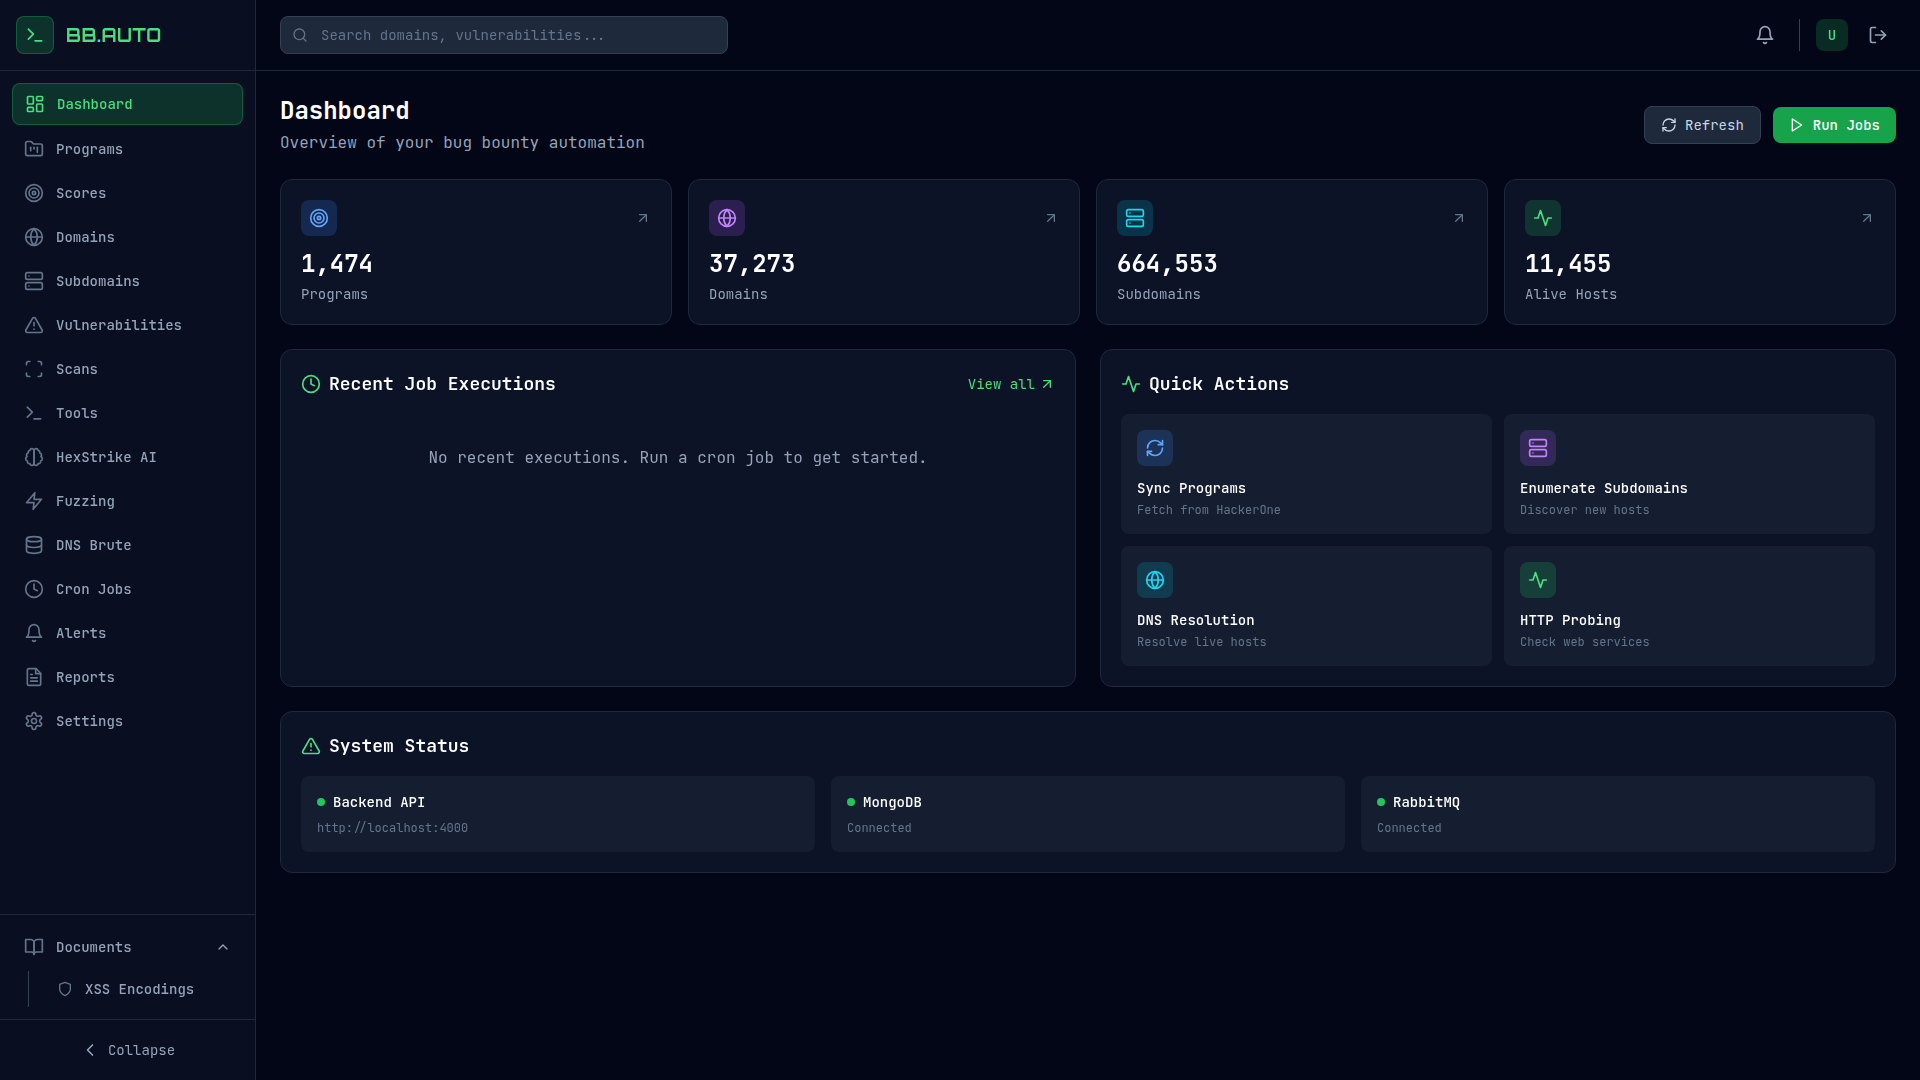
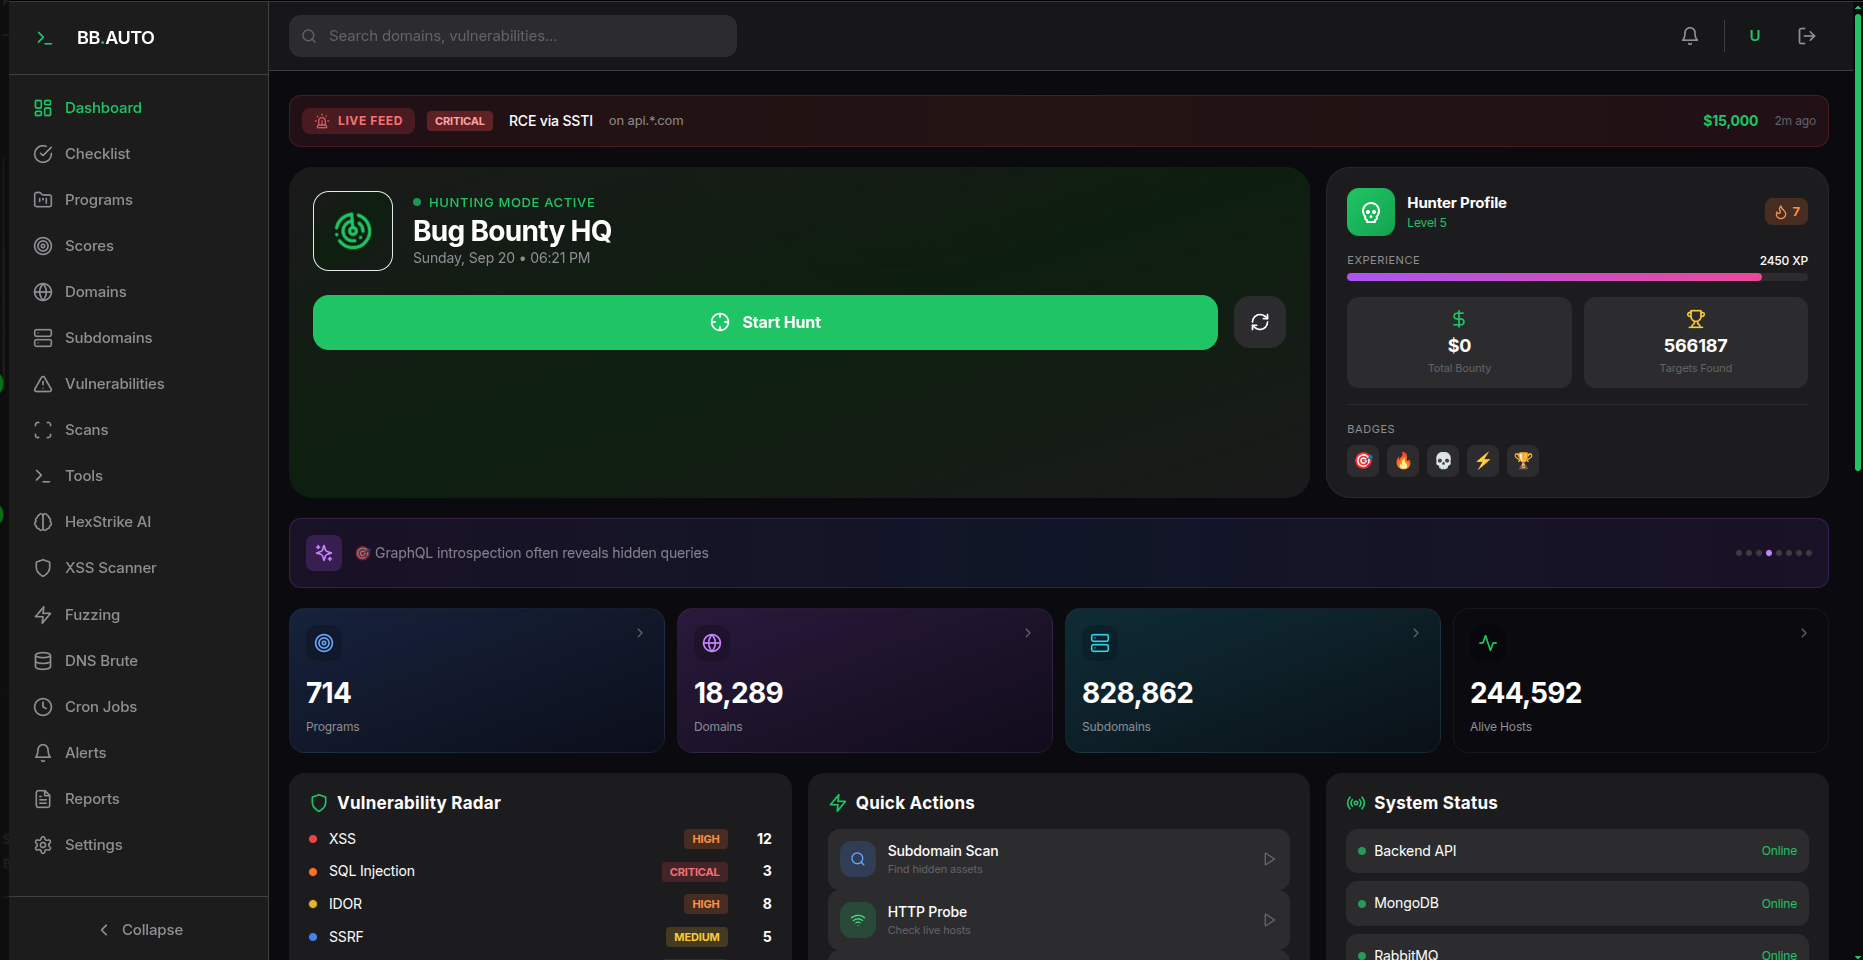
docs: refresh dashboard screenshots for current UI

diff --git a/README.md b/README.md
@@ -37,18 +37,9 @@ RabbitMQ-backed workers, and optional integrations with common security tools.
 
 ## Screenshots
 
-The repository includes a few UI previews under `scripts/screenshots/`.
-
-| Dashboard | Programs | Tools |
-| --- | --- | --- |
-| ![Dashboard](scripts/screenshots/dashboard.png) | ![Programs](scripts/screenshots/dashboard-programs.png) | ![Tools](scripts/screenshots/dashboard-tools.png) |
-
-The screenshots use local sample data. Review or replace them before making a
-public repository if the data is not intended to be shared.
-
-### Short walkthrough
-
-![BB.AUTO dashboard walkthrough](docs/demo.gif)
+The dashboard preview above reflects the current BB.AUTO interface. It uses local
+sample data for demonstration; review or replace it before sharing data that is
+not intended to be public.
 
 ## Architecture
 
